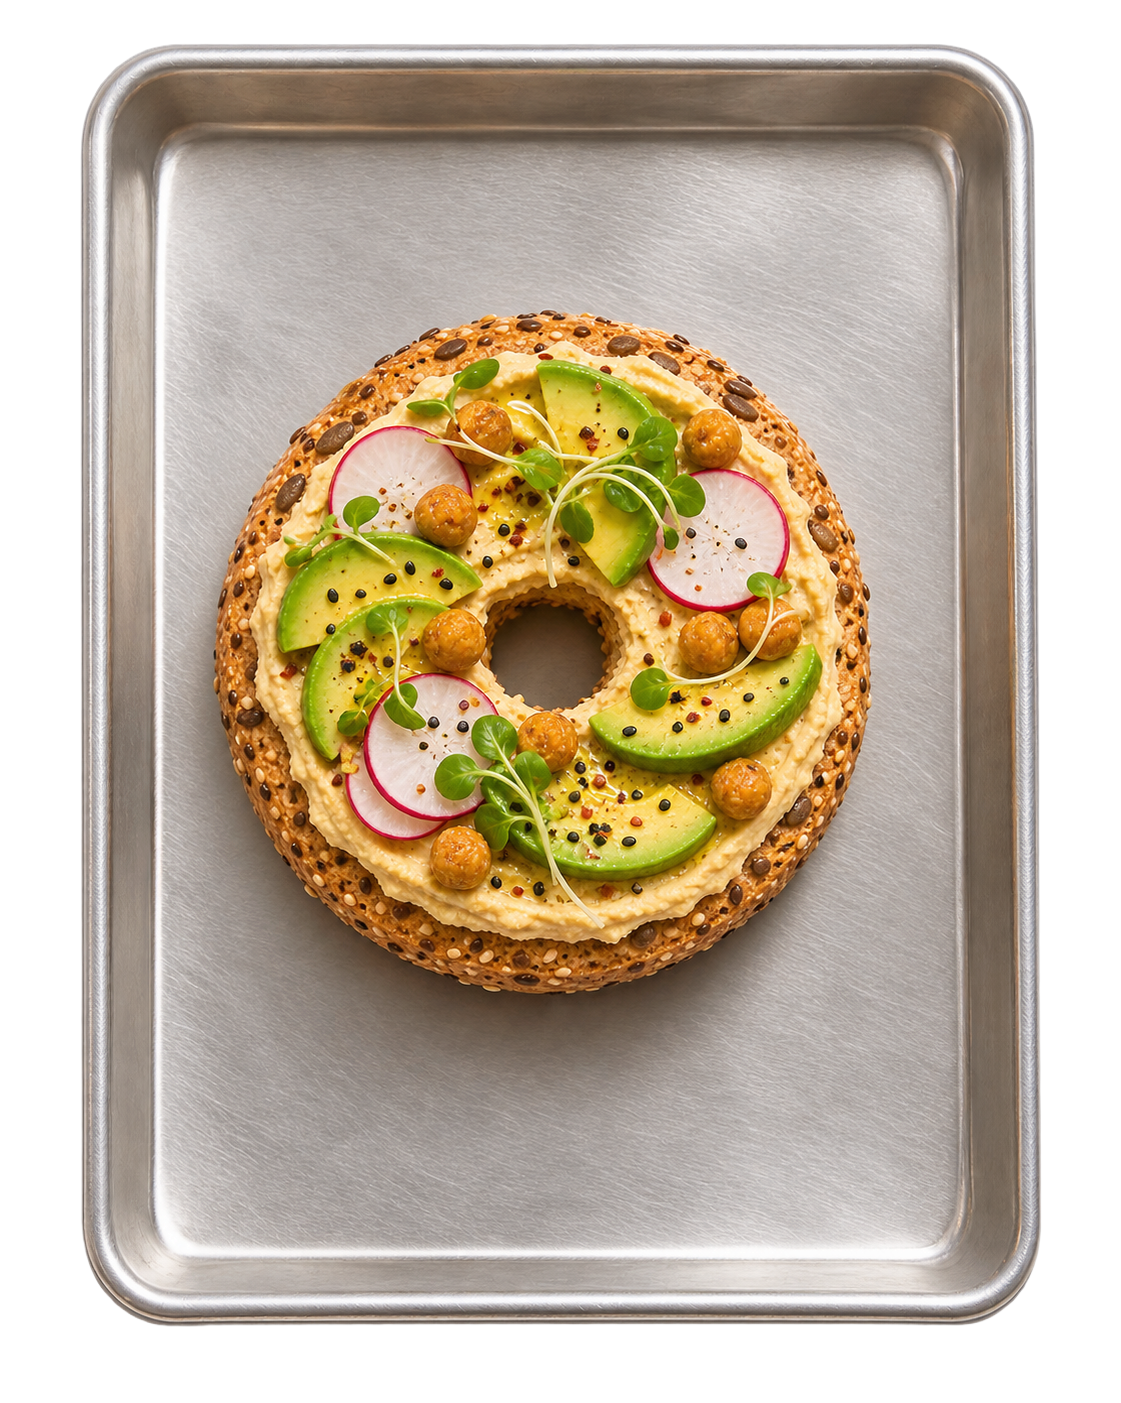
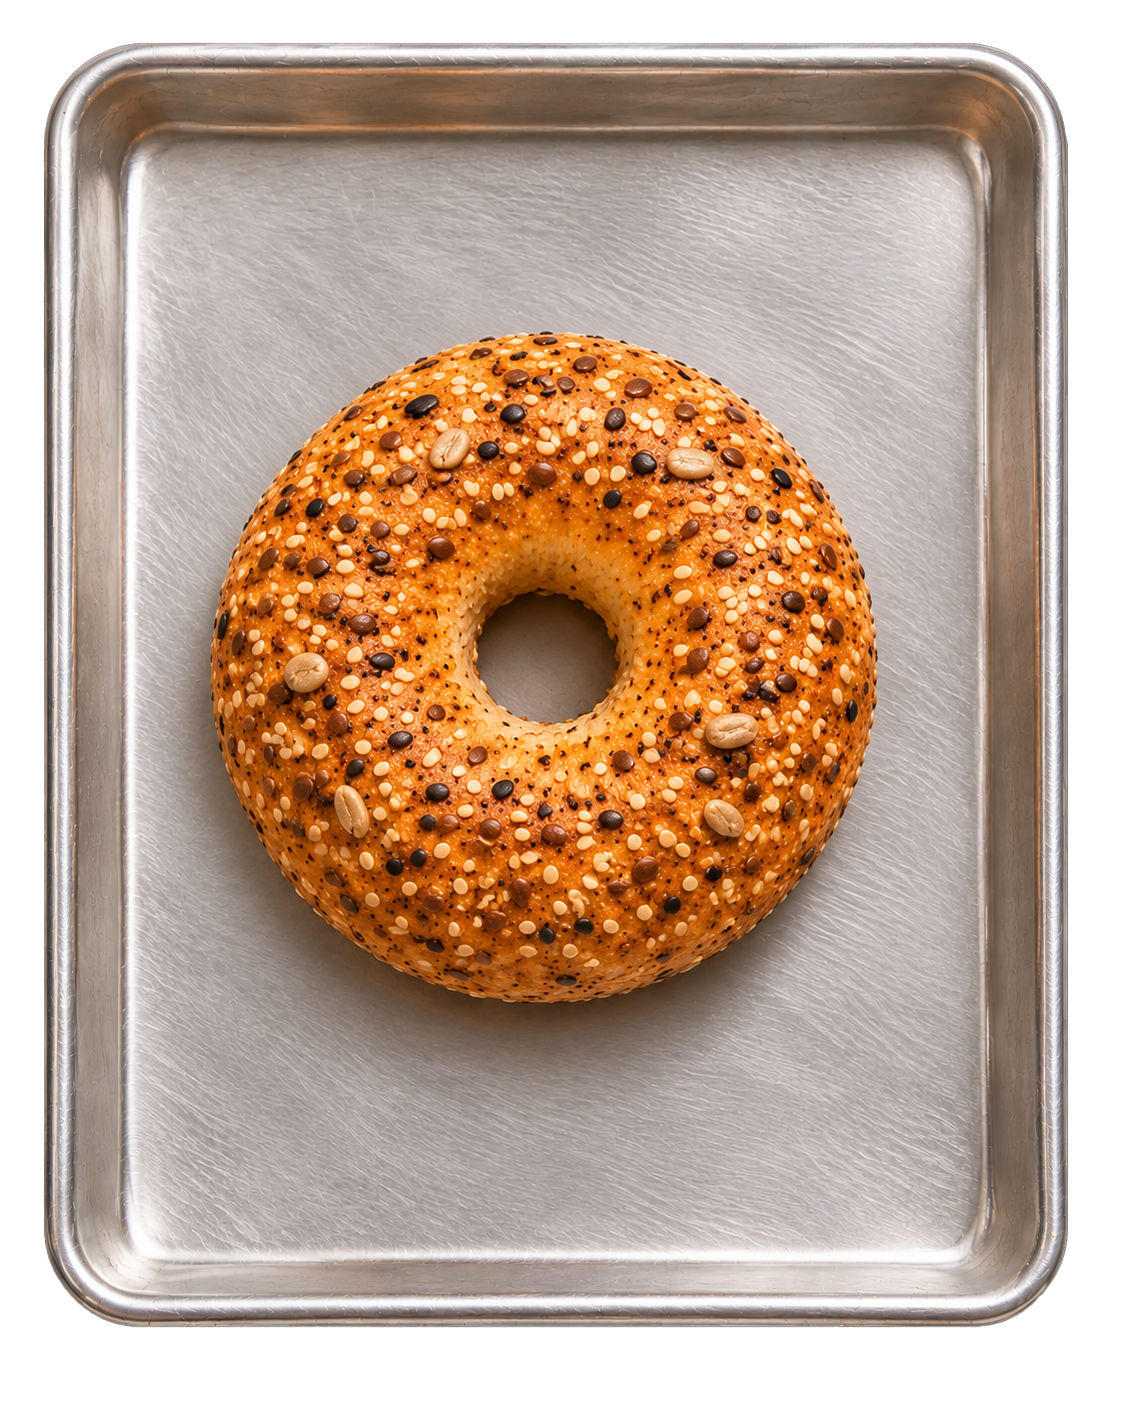
cambios

diff --git a/index.html b/index.html
@@ -227,22 +227,73 @@
       <!-- Rellenos -->
       <section id="rellenos" class="relative bg-rotulo dark:bg-lino py-16 md:py-20 text-crema dark:text-noche select-none overflow-hidden">
         
-        <!-- FONDO EXCLUSIVO DE ESTA SECCIÓN (Semillas flotantes) -->
-        <div class="absolute inset-0 pointer-events-none z-0 overflow-hidden opacity-35 dark:opacity-45" aria-hidden="true">
-          <!-- Semillas Negras -->
-          <img src="img/sesamonegro.webp" alt="" class="absolute top-[10%] left-[8%] w-8 sm:w-12 animate-float-slow" />
-          <img src="img/sesamonegro.webp" alt="" class="absolute top-[35%] right-[12%] w-10 sm:w-14 animate-float-reverse" />
-          <img src="img/sesamonegro.webp" alt="" class="absolute top-[65%] left-[15%] w-7 sm:w-10 animate-float-medium" />
-          <img src="img/sesamonegro.webp" alt="" class="absolute bottom-[10%] right-[8%] w-12 sm:w-16 animate-float-slow" />
-          <img src="img/sesamonegro.webp" alt="" class="absolute top-[50%] left-[45%] w-6 sm:w-9 animate-float-reverse" />
+      <!-- FONDO BALANCEADO (20 semillas repartidas uniformemente por cuadrícula) -->
+      <div class="absolute inset-0 pointer-events-none z-0 overflow-hidden" aria-hidden="true">
+        
+        <!-- SEMILLAS CLARAS: Modo Claro (dark:hidden) -->
+        <!-- Fila 1 -->
+        <img src="img/sesamoclaro.webp" alt="" class="absolute top-[5%] left-[8%] w-8 sm:w-11 animate-float-slow dark:hidden" />
+        <img src="img/sesamoclaro.webp" alt="" class="absolute top-[5%] left-[32%] w-10 sm:w-13 animate-float-medium dark:hidden" />
+        <img src="img/sesamoclaro.webp" alt="" class="absolute top-[5%] left-[58%] w-7 sm:w-9 animate-float-reverse dark:hidden" />
+        <img src="img/sesamoclaro.webp" alt="" class="absolute top-[5%] left-[82%] w-9 sm:w-12 animate-float-slow dark:hidden" />
 
-          <!-- Semillas Claras -->
-          <img src="img/sesamoclaro.webp" alt="" class="absolute top-[18%] right-[20%] w-9 sm:w-12 animate-float-medium" />
-          <img src="img/sesamoclaro.webp" alt="" class="absolute top-[42%] left-[6%] w-11 sm:w-15 animate-float-slow" />
-          <img src="img/sesamoclaro.webp" alt="" class="absolute top-[75%] right-[25%] w-8 sm:w-11 animate-float-reverse" />
-          <img src="img/sesamoclaro.webp" alt="" class="absolute bottom-[5%] left-[30%] w-10 sm:w-14 animate-float-medium" />
-          <img src="img/sesamoclaro.webp" alt="" class="absolute top-[5%] left-[55%] w-7 sm:w-10 animate-float-slow" />
-        </div>
+        <!-- Fila 2 -->
+        <img src="img/sesamoclaro.webp" alt="" class="absolute top-[25%] left-[18%] w-9 sm:w-12 animate-float-reverse dark:hidden" />
+        <img src="img/sesamoclaro.webp" alt="" class="absolute top-[25%] left-[42%] w-8 sm:w-10 animate-float-slow dark:hidden" />
+        <img src="img/sesamoclaro.webp" alt="" class="absolute top-[25%] left-[68%] w-11 sm:w-14 animate-float-medium dark:hidden" />
+        <img src="img/sesamoclaro.webp" alt="" class="absolute top-[25%] left-[90%] w-7 sm:w-9 animate-float-reverse dark:hidden" />
+
+        <!-- Fila 3 -->
+        <img src="img/sesamoclaro.webp" alt="" class="absolute top-[48%] left-[6%] w-10 sm:w-13 animate-float-medium dark:hidden" />
+        <img src="img/sesamoclaro.webp" alt="" class="absolute top-[48%] left-[28%] w-7 sm:w-9 animate-float-reverse dark:hidden" />
+        <img src="img/sesamoclaro.webp" alt="" class="absolute top-[48%] left-[52%] w-9 sm:w-12 animate-float-slow dark:hidden" />
+        <img src="img/sesamoclaro.webp" alt="" class="absolute top-[48%] left-[78%] w-8 sm:w-11 animate-float-medium dark:hidden" />
+
+        <!-- Fila 4 -->
+        <img src="img/sesamoclaro.webp" alt="" class="absolute top-[70%] left-[14%] w-8 sm:w-10 animate-float-slow dark:hidden" />
+        <img src="img/sesamoclaro.webp" alt="" class="absolute top-[70%] left-[38%] w-11 sm:w-14 animate-float-medium dark:hidden" />
+        <img src="img/sesamoclaro.webp" alt="" class="absolute top-[70%] left-[62%] w-7 sm:w-9 animate-float-reverse dark:hidden" />
+        <img src="img/sesamoclaro.webp" alt="" class="absolute top-[70%] left-[86%] w-10 sm:w-13 animate-float-slow dark:hidden" />
+
+        <!-- Fila 5 -->
+        <img src="img/sesamoclaro.webp" alt="" class="absolute top-[90%] left-[8%] w-9 sm:w-12 animate-float-reverse dark:hidden" />
+        <img src="img/sesamoclaro.webp" alt="" class="absolute top-[90%] left-[32%] w-8 sm:w-11 animate-float-slow dark:hidden" />
+        <img src="img/sesamoclaro.webp" alt="" class="absolute top-[90%] left-[58%] w-10 sm:w-13 animate-float-medium dark:hidden" />
+        <img src="img/sesamoclaro.webp" alt="" class="absolute top-[90%] left-[82%] w-7 sm:w-10 animate-float-reverse dark:hidden" />
+
+
+        <!-- SEMILLAS NEGRAS: Modo Oscuro (hidden dark:block) -->
+        <!-- Fila 1 -->
+        <img src="img/sesamonegro.webp" alt="" class="absolute top-[5%] left-[10%] w-9 sm:w-12 animate-float-slow hidden dark:block" />
+        <img src="img/sesamonegro.webp" alt="" class="absolute top-[5%] left-[35%] w-7 sm:w-9 animate-float-medium hidden dark:block" />
+        <img src="img/sesamonegro.webp" alt="" class="absolute top-[5%] left-[60%] w-11 sm:w-14 animate-float-reverse hidden dark:block" />
+        <img src="img/sesamonegro.webp" alt="" class="absolute top-[5%] left-[85%] w-8 sm:w-10 animate-float-slow hidden dark:block" />
+
+        <!-- Fila 2 -->
+        <img src="img/sesamonegro.webp" alt="" class="absolute top-[25%] left-[5%] w-8 sm:w-10 animate-float-reverse hidden dark:block" />
+        <img src="img/sesamonegro.webp" alt="" class="absolute top-[25%] left-[28%] w-10 sm:w-13 animate-float-slow hidden dark:block" />
+        <img src="img/sesamonegro.webp" alt="" class="absolute top-[25%] left-[52%] w-7 sm:w-9 animate-float-medium hidden dark:block" />
+        <img src="img/sesamonegro.webp" alt="" class="absolute top-[25%] left-[75%] w-9 sm:w-12 animate-float-reverse hidden dark:block" />
+
+        <!-- Fila 3 -->
+        <img src="img/sesamonegro.webp" alt="" class="absolute top-[48%] left-[15%] w-11 sm:w-14 animate-float-medium hidden dark:block" />
+        <img src="img/sesamonegro.webp" alt="" class="absolute top-[48%] left-[40%] w-8 sm:w-10 animate-float-reverse hidden dark:block" />
+        <img src="img/sesamonegro.webp" alt="" class="absolute top-[48%] left-[65%] w-10 sm:w-13 animate-float-slow hidden dark:block" />
+        <img src="img/sesamonegro.webp" alt="" class="absolute top-[48%] left-[88%] w-7 sm:w-9 animate-float-medium hidden dark:block" />
+
+        <!-- Fila 4 -->
+        <img src="img/sesamonegro.webp" alt="" class="absolute top-[70%] left-[8%] w-7 sm:w-9 animate-float-slow hidden dark:block" />
+        <img src="img/sesamonegro.webp" alt="" class="absolute top-[70%] left-[32%] w-10 sm:w-13 animate-float-medium hidden dark:block" />
+        <img src="img/sesamonegro.webp" alt="" class="absolute top-[70%] left-[58%] w-8 sm:w-11 hidden dark:block animate-float-reverse" />
+        <img src="img/sesamonegro.webp" alt="" class="absolute top-[70%] left-[82%] w-11 sm:w-14 hidden dark:block animate-float-slow" />
+
+        <!-- Fila 5 -->
+        <img src="img/sesamonegro.webp" alt="" class="absolute top-[90%] left-[12%] w-10 sm:w-13 animate-float-reverse hidden dark:block" />
+        <img src="img/sesamonegro.webp" alt="" class="absolute top-[90%] left-[38%] w-7 sm:w-9 animate-float-slow hidden dark:block" />
+        <img src="img/sesamonegro.webp" alt="" class="absolute top-[90%] left-[62%] w-9 sm:w-12 animate-float-medium hidden dark:block" />
+        <img src="img/sesamonegro.webp" alt="" class="absolute top-[90%] left-[86%] w-8 sm:w-10 animate-float-reverse hidden dark:block" />
+
+      </div>
 
         <!-- CONTENIDO DE TARJETAS DE RELLENOS -->
         <div class="relative z-10 mx-auto max-w-6xl px-6">

diff --git a/js/interfaz.js b/js/interfaz.js
@@ -194,7 +194,7 @@ document.addEventListener('DOMContentLoaded', () => {
         });
     }
 
-// AOS.js configurado para que la torre esté bien centrada antes del primer PUM
+// AOS.js configurado para que la torre esté bien centrada
     if (typeof AOS !== 'undefined') {
         AOS.init({
             duration: 500,
@@ -343,20 +343,24 @@ document.addEventListener('DOMContentLoaded', () => {
     const torre = document.getElementById('torre-bagels');
     if (!torre) return;
 
-    // Seleccionamos la base (Integral Bagel) para activar la animación cuando llegue la pantalla
-    const basePanIntegral = torre.querySelector('.z-5'); 
-    if (!basePanIntegral) return;
+    //la base (Integral Bagel) 
+    const basePanIntegral = torre.querySelector('.z-5') || torre; 
 
-    // Invertimos la lista (.reverse()) para que empiece por la base
     const bagels = Array.from(torre.querySelectorAll('.anim-bagel')).reverse(); 
     const textos = Array.from(torre.querySelectorAll('.anim-texto')).reverse();
     const etiquetasMovil = Array.from(torre.querySelectorAll('.anim-etiqueta-movil')).reverse();
 
-    // Inyectar curva de impacto con fuerza (caída rápida y rebote seco)
+    // 1. FORZAR POSICIÓN INICIAL ELEVADA (ARRIBA)
+    // Sobrescribimos el translate positivo por uno negativo para asegurar que caigan desde arriba
+    bagels.forEach(bagel => {
+        bagel.classList.remove('translate-y-16');
+        bagel.classList.add('-translate-y-24'); 
+    });
+
     const aplicarFuerzaImpacto = (el) => {
         el.style.transitionProperty = 'all';
         el.style.transitionDuration = '450ms'; 
-        el.style.transitionTimingFunction = 'cubic-bezier(0.34, 1.56, 0.64, 1)'; // Efecto PUM / Boing
+        el.style.transitionTimingFunction = 'cubic-bezier(0.34, 1.56, 0.64, 1)'; 
     };
 
     bagels.forEach(aplicarFuerzaImpacto);
@@ -369,11 +373,9 @@ document.addEventListener('DOMContentLoaded', () => {
                 
                 bagels.forEach((bagel, index) => {
                     setTimeout(() => {
-                        // Aparece el pan desde abajo hacia arriba con su PUM
-                        bagel.classList.remove('opacity-0', 'translate-y-16');
+                        bagel.classList.remove('opacity-0', '-translate-y-24', '-translate-y-16', 'translate-y-16');
                         bagel.classList.add('opacity-100', 'translate-y-0');
 
-                        // Entran los textos/etiquetas a la vez
                         if (textos[index * 2]) {
                             textos[index * 2].classList.remove('opacity-0', '-translate-x-10');
                             textos[index * 2].classList.add('opacity-100', 'translate-x-0');
@@ -383,17 +385,17 @@ document.addEventListener('DOMContentLoaded', () => {
                             textos[index * 2 + 1].classList.add('opacity-100', 'translate-x-0');
                         }
                         if (etiquetasMovil[index]) {
-                            etiquetasMovil[index].classList.remove('opacity-0', 'translate-y-6');
+                            etiquetasMovil[index].classList.remove('opacity-0', 'translate-y-6', '-translate-y-6');
                             etiquetasMovil[index].classList.add('opacity-100', 'translate-y-0');
                         }
-                    }, index * 450); // 450ms de pausa entre pan y pan
+                    }, index * 400); 
                 });
 
                 observer.unobserve(entry.target);
             }
         });
     }, {
-        threshold: 0.5 // Se activa al llegar a la base de la torre
+        threshold: 0.3 // Se activa cuando la base entra holgadamente en pantalla
     });
 
     observerBase.observe(basePanIntegral);

diff --git a/css/styles.css b/css/styles.css
@@ -2,7 +2,7 @@
 
 @layer theme, base, components, utilities;
 
-/* ---------- BASE: etiquetas y tema ---------- */
+/* BASE: etiquetas y tema */
 @layer base {
     html {
         scroll-behavior: smooth !important;
@@ -20,7 +20,7 @@
     }
 }
 
-/* ---------- COMPONENTS: nuestras clases ---------- */
+/* COMPONENTS: nuestras clases */
 @layer components {
 
     :where(a, button, [role="button"]):focus-visible {
@@ -60,7 +60,7 @@
     }
 }
 
-/* ---------- UTILITIES: animaciones propias ---------- */
+/* UTILITIES: animaciones propias */
 @layer utilities {
     .animate-marquee {
         display: inline-flex;
@@ -96,45 +96,39 @@
     }
 }
 
-/* ==========================================
-   ANIMACIÓN DE SEMILLAS DE SÉSAMO FLOTANTES
-   ========================================== */
+/* ANIMACIÓN DE SEMILLAS DE SÉSAMO */
 
-@keyframes floatSlow {
-  0%, 100% {
-    transform: translateY(0px) rotate(0deg) translateX(0px);
-  }
-  50% {
-    transform: translateY(-25px) rotate(15deg) translateX(12px);
-  }
+@keyframes floatFree1 {
+  0% { transform: translate(0, 0) rotate(0deg); }
+  25% { transform: translate(60px, -50px) rotate(90deg); }
+  50% { transform: translate(-50px, 60px) rotate(180deg); }
+  75% { transform: translate(50px, 30px) rotate(270deg); }
+  100% { transform: translate(0, 0) rotate(360deg); }
 }
 
-@keyframes floatMedium {
-  0%, 100% {
-    transform: translateY(0px) rotate(0deg) translateX(0px);
-  }
-  50% {
-    transform: translateY(-18px) rotate(-20deg) translateX(-10px);
-  }
+@keyframes floatFree2 {
+  0% { transform: translate(0, 0) rotate(0deg); }
+  30% { transform: translate(-60px, -40px) rotate(-120deg); }
+  60% { transform: translate(40px, -30px) rotate(120deg); }
+  80% { transform: translate(-30px, 50px) rotate(240deg); }
+  100% { transform: translate(0, 0) rotate(360deg); }
 }
 
-@keyframes floatReverse {
-  0%, 100% {
-    transform: translateY(0px) rotate(0deg) translateX(0px);
-  }
-  50% {
-    transform: translateY(22px) rotate(25deg) translateX(-15px);
-  }
+@keyframes floatFree3 {
+  0% { transform: translate(0, 0) rotate(0deg); }
+  33% { transform: translate(50px, 50px) rotate(140deg); }
+  66% { transform: translate(-50px, -60px) rotate(-140deg); }
+  100% { transform: translate(0, 0) rotate(360deg); }
 }
 
 .animate-float-slow {
-  animation: floatSlow 7s ease-in-out infinite;
+  animation: floatFree1 24s ease-in-out infinite;
 }
 
 .animate-float-medium {
-  animation: floatMedium 5s ease-in-out infinite;
+  animation: floatFree2 20s ease-in-out infinite;
 }
 
 .animate-float-reverse {
-  animation: floatReverse 6.5s ease-in-out infinite;
+  animation: floatFree3 26s ease-in-out infinite;
 }
